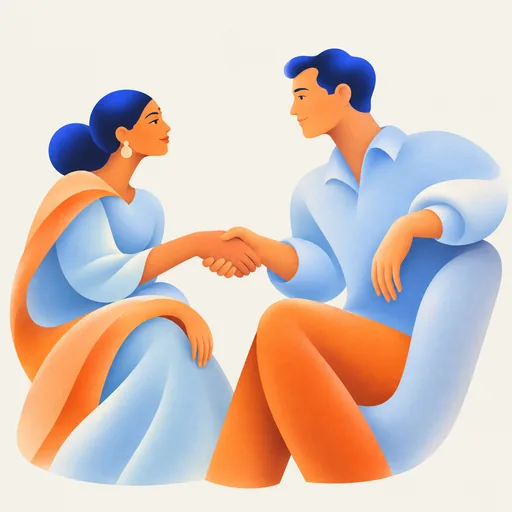
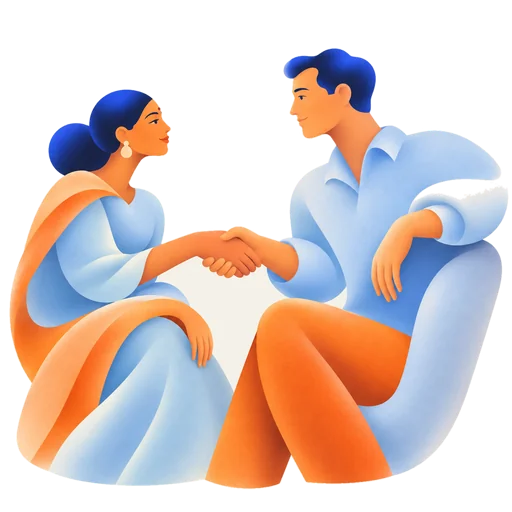
Иллюстрации направлений без кремового фона
Фон вырезан в прозрачность (заливка от краёв по тёплому кремовому цвету, белые и
голубые блики фигур не задеты), иллюстрации лежат прямо на фоне страницы.

diff --git a/site/index.html b/site/index.html
@@ -125,7 +125,7 @@
   .statement .pillars { margin: 56px auto 0; display: grid; grid-template-columns: repeat(4, 1fr); gap: 1px; max-width: 900px; background: var(--line); border-radius: var(--r-lg); overflow: hidden; text-align: left; }
   .pillars > div { background: var(--bg); padding: 22px 22px 24px; }
   /* иллюстрации направлений: квадрат на всю ширину ячейки, слегка приближаются при наведении */
-  .pillars .ill { display: block; width: 100%; height: auto; aspect-ratio: 1; border-radius: 14px; transition: transform .6s cubic-bezier(.2,.8,.2,1); }
+  .pillars .ill { display: block; width: 100%; height: auto; aspect-ratio: 1; transition: transform .6s cubic-bezier(.2,.8,.2,1); }
   .pillars > div:hover .ill { transform: scale(1.03); }
   .pillars h4 { font-family: var(--serif); font-weight: 400; font-size: 19px; margin: 16px 0 4px; }
   .pillars p { color: var(--ink-2); font-size: 13.5px; }
